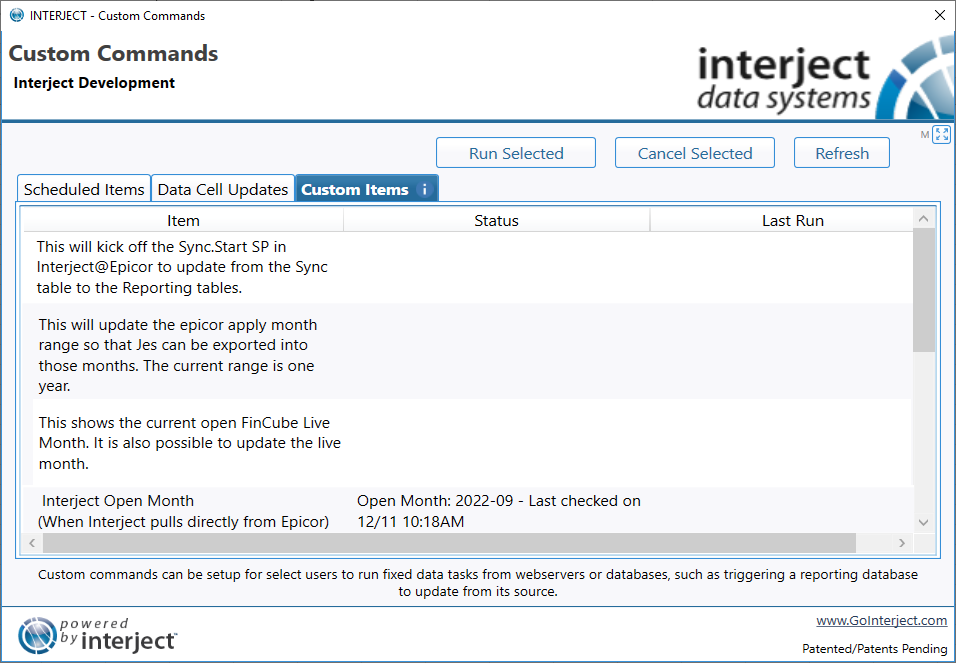
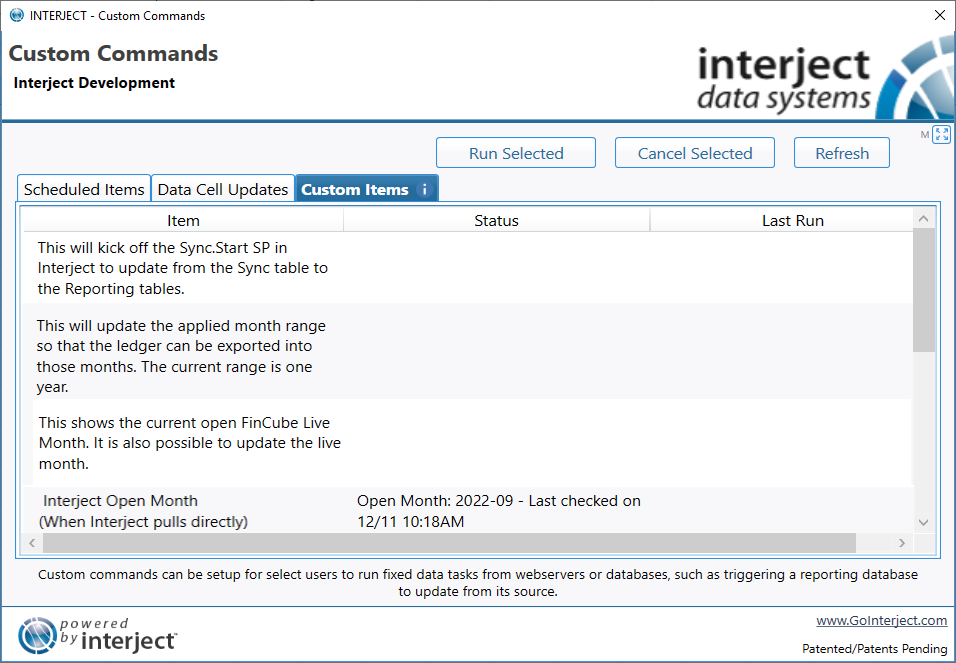
updated screenshots (removed epicor)

Changed region(s): [[0.0303, 0.4827, 0.3337, 0.6033], [0.0303, 0.362, 0.364, 0.4525], [0.0303, 0.724, 0.3337, 0.8145]]

diff --git a/wDeveloper/CustomItems.md b/wDeveloper/CustomItems.md
@@ -64,14 +64,14 @@ When running the custom item, Interject will prompt the user for input:
 
 ### Description and Status
 
-When the **Custom Items** tab or **Refresh** button is selected, Interject automatically executes the custom items and sends the `Interject_CommandExecute` parameter to the stored procedure with the value of 0. This can signal the stored procedure to only set the `Interject_CommandDescription` and `Interject_CommandStatus` parameters instead of actually executing the entire command. These parameters are output parameters that Interject displays in the Custom Commands form. When selected or refreshed, Interject will fetch the description and status:
+When the **Custom Items** tab or **Refresh** button is selected, Interject automatically executes the custom items and sends the `Interject_CommandExecute` parameter to the stored procedure with the value of 0. This can signal the stored procedure to only set the `Interject_CommandDescription` and `Interject_CommandStatus` parameters instead of actually executing the entire code. These parameters are output parameters that Interject displays in the Custom Commands form. When selected or refreshed, Interject will fetch the description and status:
 
 ![](/images/CustomItems/GettingDescriptionStatus.png)
 <br>
 
 ### Running the Custom Item
 
-The custom items are defined by the stored procedure or web service. When **Run Selected** is clicked, Interject will set the `Interject_CommandExecute` variable to 1, which signals the stored procedure to execute the entire command.
+The custom items are defined by the stored procedure or web service. When **Run Selected** is clicked, Interject will set the `Interject_CommandExecute` variable to 1, which signals the stored procedure to execute the entire code.
 
 The event is ran asynchronously. The user can cancel the event by clicking the **Cancel Selected** button.  The user should not exit the Interject spreadsheet session until the event is completed or it will be automatically aborted.
 

diff --git a/wGetStarted/INTERJECT-Ribbon-Menu-Items.md b/wGetStarted/INTERJECT-Ribbon-Menu-Items.md
@@ -153,8 +153,8 @@ The Custom Commands feature allows users to manage and run three kinds of operat
 <br>
 
 * **Scheduled Items:** Run scheduled data operations
-* **Data Cell Updates:** Displays the update history of [data cells](/wAbout/Tabular-vs-Data-Cells.html#data-cells)
-* **Custom Items:** Execute [Custom Items](/wDeveloper/CustomItems.html) that run specialized stored procedures
+* **[Data Cell](/wAbout/Tabular-vs-Data-Cells.html#data-cells) Updates:** Displays the update history of data cells
+* **[Custom Items](/wDeveloper/CustomItems.html):** Execute Custom Items that run specialized stored procedures
 
 <br>
 
